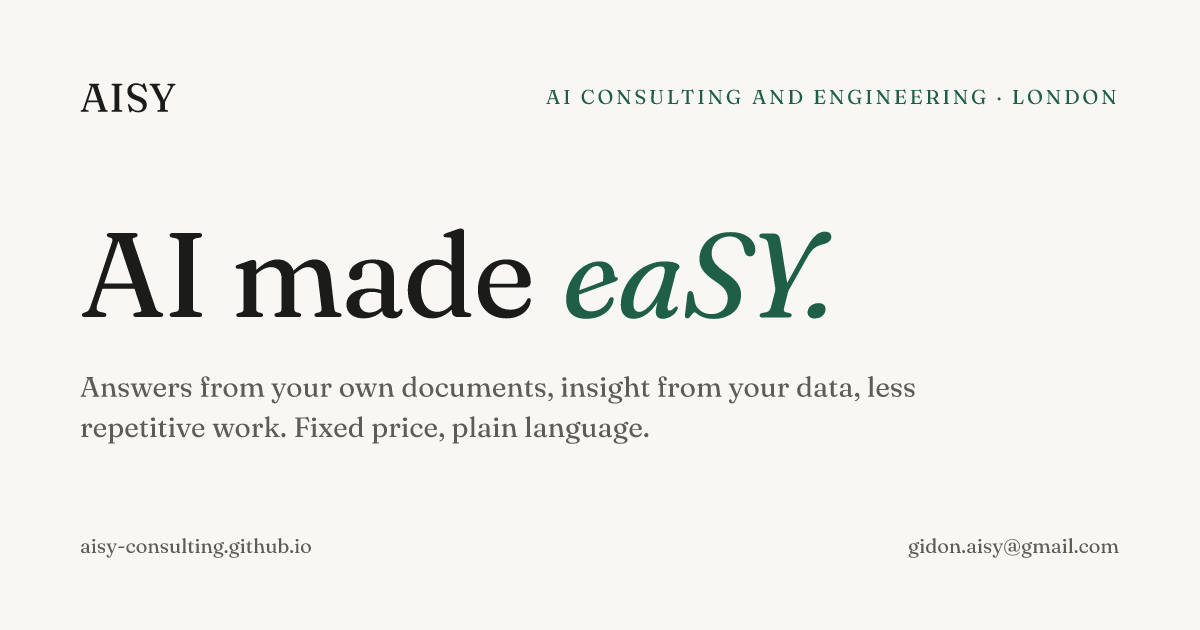
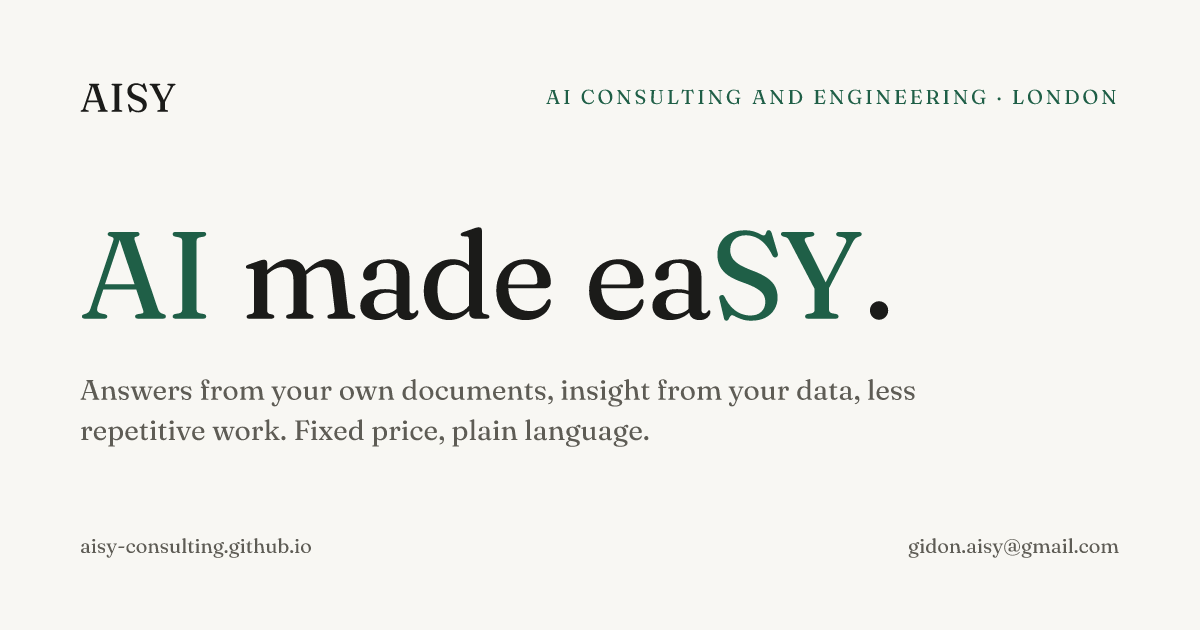
Colour AI and SY alike, drop technical-note label, two hours, add consultation and tailored options

Changed region(s): [[0.0617, 0.3619, 0.74, 0.5127], [0.0617, 0.6032, 0.7708, 0.7238]]

diff --git a/components/Services.js b/components/Services.js
@@ -32,15 +32,28 @@ const services = [
   },
 ]
 
+const extras = [
+  {
+    icon: 'chat',
+    title: 'A general AI consultation',
+    desc: 'Not sure where AI fits in your business? Half a day or a full day together. We go through your workflows and data, and you get a short written assessment: what is feasible, roughly what it would cost, and what to do first. If the answer is “not yet”, you get that in writing too.',
+  },
+  {
+    icon: 'sliders',
+    title: 'Something tailored',
+    desc: 'If your problem does not fit the boxes above, describe it. Most work starts as a specific problem that did not fit a box. If I am not the right person for it, I will say so and point you somewhere useful.',
+  },
+]
+
 export default function Services() {
   return (
     <section id="services" className="border-t border-border bg-surface">
       <div className="container-x py-20 md:py-28">
         <SectionHeading
           label="What I do"
-          title="Four common"
-          accent="starting points."
-          intro="Most projects start with one of these. If yours does not fit, bring it to the call."
+          title="Where to"
+          accent="start."
+          intro="Most projects start with one of the first four. If yours does not fit, the last two are for you."
         />
 
         <div className="grid gap-5 md:grid-cols-2">
@@ -56,9 +69,22 @@ export default function Services() {
                 {s.example}
               </p>
               <p className="tech-note mt-auto border-t border-border pt-4">
-                <strong>In technical terms: </strong>
                 {s.tech}
               </p>
+            </article>
+          ))}
+        </div>
+
+        <div className="mt-5 grid gap-5 md:grid-cols-2">
+          {extras.map((e) => (
+            <article key={e.title} className="card flex gap-5 p-7 transition-colors hover:border-ink/30 md:p-8">
+              <div className="flex h-11 w-11 shrink-0 items-center justify-center rounded-xl bg-accent-soft text-accent">
+                <Icon name={e.icon} className="h-5 w-5" />
+              </div>
+              <div>
+                <h3 className="mb-2 font-serif text-xl font-normal leading-snug">{e.title}</h3>
+                <p className="text-[0.95rem] leading-relaxed text-muted">{e.desc}</p>
+              </div>
             </article>
           ))}
         </div>

diff --git a/components/MadeWithAi.js b/components/MadeWithAi.js
@@ -13,7 +13,7 @@ export default function MadeWithAi() {
             <p className="mb-5">
               The design, the code and the text of this site, the two-minute check, the list of companies I contacted
               and the email that may have brought you here were all produced with AI (Claude), with me directing and
-              checking. It took a day. Client work runs the same way: AI does the volume, I keep the judgement.
+              checking. It took two hours. Client work runs the same way: AI does the volume, I keep the judgement.
             </p>
             <a href="#contact" className="btn-secondary">Ask me how</a>
           </div>

diff --git a/components/Icon.js b/components/Icon.js
@@ -25,6 +25,19 @@ const paths = {
       <path d="M10 3.5a1.5 1.5 0 0 1 3 0V5h3a1 1 0 0 1 1 1v3h1.5a1.5 1.5 0 0 1 0 3H17v4a1 1 0 0 1-1 1h-3v-1.5a1.5 1.5 0 0 0-3 0V17H7a1 1 0 0 1-1-1v-4H4.5a1.5 1.5 0 0 1 0-3H6V6a1 1 0 0 1 1-1h3z" />
     </>
   ),
+  chat: (
+    <>
+      <path d="M21 12a8 8 0 0 1-8 8H8l-4 3v-6.5A8 8 0 0 1 12 4h1a8 8 0 0 1 8 8z" />
+      <path d="M9 11h6M9 14h4" />
+    </>
+  ),
+  sliders: (
+    <>
+      <path d="M4 7h10M18 7h2M4 17h2M10 17h10" />
+      <circle cx="16" cy="7" r="2" />
+      <circle cx="8" cy="17" r="2" />
+    </>
+  ),
   check: <path d="M5 12l5 5L20 7" />,
   chevron: <path d="M6 9l6 6 6-6" />,
   arrow: (

diff --git a/components/Hero.js b/components/Hero.js
@@ -13,7 +13,7 @@ export default function Hero() {
           className="mb-6 font-serif text-[3rem] font-normal leading-[1.02] tracking-[-0.02em] animate-fade-up sm:text-6xl md:text-7xl lg:text-[5.5rem]"
           style={{ animationDelay: '0.15s' }}
         >
-          AI made <em className="italic text-accent">eaSY.</em>
+          <span className="text-accent">AI</span> made ea<span className="text-accent">SY</span>.
         </h1>
         <p
           className="mb-8 max-w-2xl text-[1.1rem] leading-relaxed text-muted animate-fade-up md:text-xl"

diff --git a/components/Work.js b/components/Work.js
@@ -39,8 +39,7 @@ export default function Work() {
                 <h3 className="mb-4 max-w-2xl font-serif text-2xl font-normal leading-snug md:text-[1.75rem]">{p.title}</h3>
                 <p className="mb-4 max-w-3xl leading-relaxed text-muted">{p.body}</p>
                 <p className="tech-note mt-5 max-w-3xl rounded-xl bg-paper px-4 py-3">
-                  <strong>In technical terms: </strong>
-                  {p.tech}
+                    {p.tech}
                 </p>
                 {p.link && (
                   <a

diff --git a/components/Contact.js b/components/Contact.js
@@ -16,6 +16,8 @@ const interests = [
   'Understanding our data',
   'Automating repetitive work',
   'An AI feature in our product',
+  'A general AI consultation',
+  'Something tailored to us',
   'Not sure yet, I would like to talk it through',
 ]
 

diff --git a/README.md b/README.md
@@ -63,7 +63,7 @@ the `services` array in `components/Services.js`; for work entries, `projects` i
 `components/About.js`; for questions and answers, `faqs` and `glossary` in `components/Faq.js`; for the self-check, the `questions` and `outcomes` objects in `components/Selfcheck.js`.
 
 The copy is written for readers who are not familiar with AI. Lead with the outcome in plain
-language and keep technical terms inside the "In technical terms" notes.
+language and keep technical terms inside the small grey notes under each card.
 
 ## Custom domain (optional)
 
